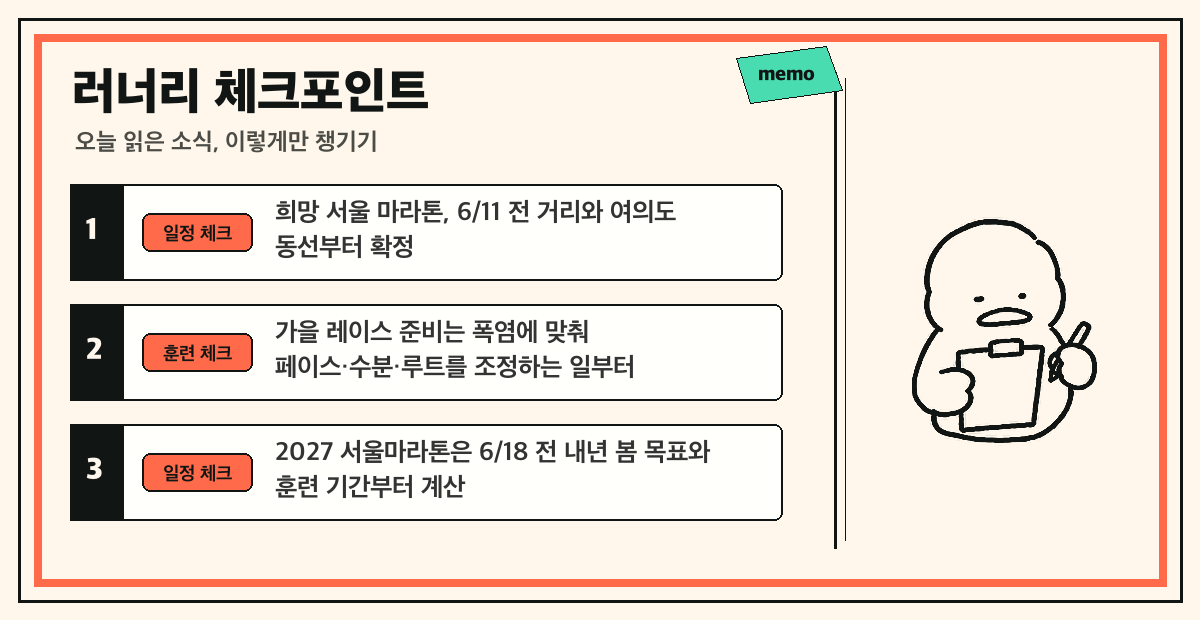
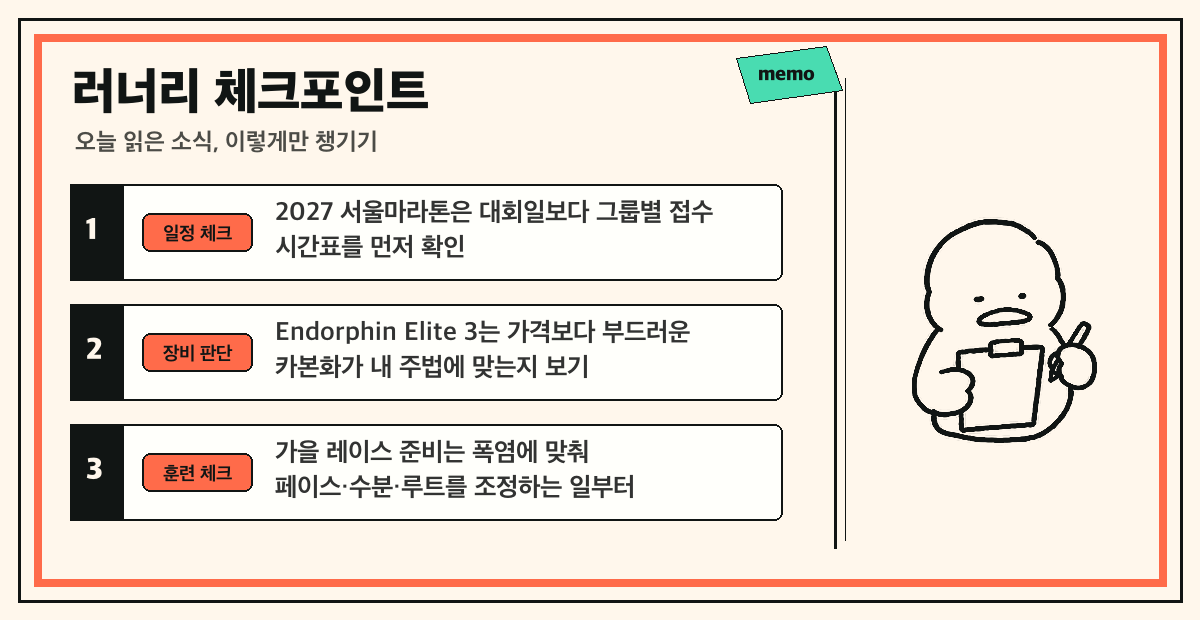
Separate subscriber sends and revise issue 20

diff --git a/scripts/validate_candidate_pool.py b/scripts/validate_candidate_pool.py
@@ -25,8 +25,7 @@ REQUIRED_FIELDS = [
     "verification_status",
 ]
 
-# Issue 20 was already sent before this source-diversity rule existed.
-SOURCE_DIVERSITY_START_ISSUE_ID = "2026-06-11-21"
+SOURCE_DIVERSITY_START_ISSUE_ID = "2026-06-09-20"
 
 AGGREGATOR_SOURCES = {
     "고러닝",

diff --git a/scripts/generate_issue.py b/scripts/generate_issue.py
@@ -157,7 +157,7 @@ def build_editorial_meta(rows, number, korea_count, global_count):
     issue_focus = build_issue_focus(rows, has_trail, has_gear, has_training)
     if main_category == "event":
         main_editorial = (
-            f"{main_title} 소식을 이번 호의 첫머리에 둔 이유는 마감이 가깝고 실제 참가 결정에 필요한 변수가 한 번에 걸려 있기 때문입니다. "
+            f"{main_title} 소식을 이번 호의 첫머리에 둔 이유는 실제 참가 결정에 필요한 변수가 한 번에 걸려 있기 때문입니다. "
             "날짜와 모집 정보는 본문 요약에서 확인하고, 여기서는 선택 기준만 잡겠습니다. "
             "접수 시작 시간, 마감일, 선착순 여부를 한 표에 놓고 보면 핵심은 '갈 수 있나'보다 '마감 전에 확정할 수 있나'입니다. "
             "접수 전에는 계정 로그인, 결제수단, 교통편, 동반자 일정을 먼저 고정하세요."

diff --git a/scripts/send_issue_email.py b/scripts/send_issue_email.py
@@ -355,7 +355,7 @@ def get_subscriber_recipients():
         raise SystemExit(
             "Missing subscriber lookup environment variable(s): "
             + ", ".join(missing)
-            + ". Use `npm run publish` so GitHub Actions supplies repository secrets."
+            + ". Use `npm run send:subscribers` so GitHub Actions supplies repository secrets."
         )
 
     url = f"https://api.cloudflare.com/client/v4/accounts/{account_id}/d1/database/{db_id}/query"

diff --git a/issues/2026-06-09-running-newsletter.md b/issues/2026-06-09-running-newsletter.md
@@ -1,46 +1,46 @@
 # 오늘의 러닝 브리핑 20 - 2026-06-09
 
 발행일: 2026-06-09
-구성: 국내 4개 / 해외 1개
-이메일 인트로: 안녕하세요, 러너리입니다. 20호는 국내 4개, 해외 1개로 구성했습니다. 이번 호에서는 제2회 희망 서울 마라톤, 6월 11일 접수 마감 같은 접수 소식과 가을 레이스 준비자를 위한 폭염 훈련 전략 같은 해외 흐름을 함께 봅니다. 바로 일정표에 올릴 정보와 다음 훈련, 장비 선택에 참고할 기준을 나눠 담았습니다.
-이번 호 중심: 이번 호는 대회 캘린더와 훈련 계획을 따로 보지 않는 데 초점을 맞췄습니다. 참가 후보를 고를 때는 마감일과 출발 시간만 볼 게 아니라, 그 일정을 무리 없이 준비할 수 있는 주간 훈련 구조까지 같이 봐야 합니다.
-메인 에디토리얼: 제2회 희망 서울 마라톤, 6월 11일 접수 마감 소식을 이번 호의 첫머리에 둔 이유는 마감이 가깝고 실제 참가 결정에 필요한 변수가 한 번에 걸려 있기 때문입니다. 날짜와 모집 정보는 본문 요약에서 확인하고, 여기서는 선택 기준만 잡겠습니다. 접수 시작 시간, 마감일, 선착순 여부를 한 표에 놓고 보면 핵심은 '갈 수 있나'보다 '마감 전에 확정할 수 있나'입니다. 접수 전에는 계정 로그인, 결제수단, 교통편, 동반자 일정을 먼저 고정하세요.
-미드런 노트: 접수 일정과 몸 관리가 같이 걸려 있습니다. 대회 캘린더를 채울 때 장거리주, 회복식, 컨디션 저하 신호를 같은 주간 계획 안에 넣어두세요.
-이번 호 관점: 이번 호는 ‘어디에 신청할까’에서 한 걸음 더 나아가 ‘무사히 준비할 수 있을까’를 같이 묻습니다. 국내 대회 후보는 접수창과 이동 동선으로 나누고, 해외 소식은 장비 역할과 피로 관리 기준으로 읽으면 좋습니다.
+구성: 국내 2개 / 해외 3개
+이메일 인트로: 안녕하세요, 러너리입니다. 20호는 국내 2개, 해외 3개로 구성했습니다. 이번 호에서는 2027 서울마라톤, 일반 접수는 그룹별 시간 확인이 먼저 같은 접수 소식과 코펜하겐 2026 세계도로러닝선수권, 5K, 1마일은 일반 접수 가능 같은 해외 흐름을 함께 봅니다. 바로 일정표에 올릴 정보와 다음 훈련, 장비 선택에 참고할 기준을 나눠 담았습니다.
+이번 호 중심: 이번 호는 6월 레이스를 한 줄 캘린더로 보지 않고 준비 방식별로 나눠 보는 호입니다. 도로 대회는 접수 마감과 이동 동선이 먼저이고, 트레일 일정은 노면과 전날 준비 시간이 핵심입니다. 장비 소식은 새 제품 이름보다 내 훈련화가 맡을 역할을 정하는 데 쓰면 좋습니다.
+메인 에디토리얼: 2027 서울마라톤, 일반 접수는 그룹별 시간 확인이 먼저 소식을 이번 호의 첫머리에 둔 이유는 실제 참가 결정에 필요한 변수가 한 번에 걸려 있기 때문입니다. 날짜와 모집 정보는 본문 요약에서 확인하고, 여기서는 선택 기준만 잡겠습니다. 접수 시작 시간, 마감일, 선착순 여부를 한 표에 놓고 보면 핵심은 '갈 수 있나'보다 '마감 전에 확정할 수 있나'입니다. 접수 전에는 계정 로그인, 결제수단, 교통편, 동반자 일정을 먼저 고정하세요.
+미드런 노트: 로드와 트레일 일정이 같이 있을 때는 출발일보다 전날 준비 시간을 먼저 보세요. 장비검사, 숙박, 이동 시간을 빼고 나면 실제로 선택 가능한 대회가 줄어듭니다.
+이번 호 관점: 이번 호는 6월 초중순 레이스를 같은 목록으로 보되 준비 난도를 다르게 읽으면 좋습니다. 도로 대회는 접수와 이동을, 트레일 대회는 전날 체크인과 장비를, 장비 소식은 내 훈련화 역할을 기준으로 나눠 보세요.
 
-안녕하세요, 러너리입니다. 20호는 국내 4개, 해외 1개로 구성했습니다. 이번 호에서는 제2회 희망 서울 마라톤, 6월 11일 접수 마감 같은 접수 소식과 가을 레이스 준비자를 위한 폭염 훈련 전략 같은 해외 흐름을 함께 봅니다. 바로 일정표에 올릴 정보와 다음 훈련, 장비 선택에 참고할 기준을 나눠 담았습니다.
+안녕하세요, 러너리입니다. 20호는 국내 2개, 해외 3개로 구성했습니다. 이번 호에서는 2027 서울마라톤, 일반 접수는 그룹별 시간 확인이 먼저 같은 접수 소식과 코펜하겐 2026 세계도로러닝선수권, 5K, 1마일은 일반 접수 가능 같은 해외 흐름을 함께 봅니다. 바로 일정표에 올릴 정보와 다음 훈련, 장비 선택에 참고할 기준을 나눠 담았습니다.
 
-## 1. 제2회 희망 서울 마라톤, 6월 11일 접수 마감
-
-- 구분: 국내 / 이벤트
-- 요약: 고러닝 기준 제2회 희망 서울 마라톤은 6월 20일 서울 여의도공원 문화의마당에서 열립니다. 종목은 하프, 10km, 5km이고 접수 마감은 6월 11일로 안내돼 있습니다. 서울 한강권 주말 대회라 출발 전 이동과 현장 동선을 미리 정해야 합니다.
-- 러너에게 중요한 이유: 마감이 이틀 남은 서울권 참가형 소식입니다. 관심 러너는 거리 선택, 결제, 여의도공원 이동 계획을 이번 주 안에 확정해야 합니다.
-- 원문: [고러닝](https://gorunning.kr/races/1018/2nd-hope-seoul-marathon/)
-- 한 줄 관점: 희망 서울 마라톤, 6/11 전 거리와 여의도 동선부터 확정.
-
-## 2. 2027 서울마라톤, 6월 18일 접수 마감
+## 1. 2027 서울마라톤, 일반 접수는 그룹별 시간 확인이 먼저
 
 - 구분: 국내 / 이벤트
-- 요약: 고러닝 기준 2027 서울마라톤은 2027년 3월 21일 서울 광화문광장에서 열립니다. 종목은 풀코스와 10km이고 접수 마감은 6월 18일로 안내돼 있습니다. 서울국제마라톤 계열 대회라 내년 봄 목표 레이스를 미리 잡는 소식입니다.
-- 러너에게 중요한 이유: 아직 대회일은 멀지만 접수 마감은 다음 주입니다. 풀코스 첫 도전이나 봄 시즌 목표를 세우는 러너는 지금 일정과 훈련 가능 기간을 같이 봐야 합니다.
-- 원문: [고러닝](https://gorunning.kr/races/1151/2027-seoul-marathon/)
-- 한 줄 관점: 2027 서울마라톤은 6/18 전 내년 봄 목표와 훈련 기간부터 계산.
+- 요약: KorMarathon은 2027 서울마라톤 일반 접수가 6월 1일과 2일에 그룹별 시간대로 진행된다고 정리했습니다. 풀코스 기록 제출, 우선 접수, 골드 패키지, 일반 접수 순서가 나뉘고, 6월 1일에는 A부터 D그룹이 19시부터 22시까지 시간차를 두고 접수합니다. 내년 봄 목표 레이스라도 접수 구조는 지금부터 파악해야 합니다.
+- 러너에게 중요한 이유: 서울마라톤은 참가 의지만으로 해결되지 않는 대회입니다. 기록 제출, 우선 접수 자격, 그룹별 오픈 시간을 미리 확인해야 접수일에 같은 실수를 반복하지 않습니다.
+- 원문: [KorMarathon](https://www.kormarathon.com/en/races/2027-seoul-marathon)
+- 한 줄 관점: 2027 서울마라톤은 대회일보다 그룹별 접수 시간표를 먼저 확인.
 
-## 3. 소백산 국망봉 왕복 트레일, 6월 10일 접수 마감
-
-- 구분: 국내 / 이벤트
-- 요약: 고러닝 기준 제11회 소백산 국망봉 왕복 트레일은 6월 21일 03시 경북 죽령휴게소에서 출발합니다. 종목은 22km이고 접수 마감은 6월 10일로 안내돼 있습니다. 백두대간 산길을 달리는 트레일이라 일반 도로 대회와 준비 기준이 다릅니다.
-- 러너에게 중요한 이유: 마감이 하루 남은 상급 트레일 후보입니다. 참가자는 거리보다 새벽 출발, 산길 장비, 이동과 회복 계획을 먼저 확인해야 합니다.
-- 원문: [고러닝](https://gorunning.kr/races/812/2026-sobaeksan-jukyeong-trail-run/)
-- 한 줄 관점: 소백산 트레일은 6/10 전 새벽 출발과 산길 준비 가능성부터 보기.
-
-## 4. 장수트레일레이스 Fall, 6월 10일 접수 마감
+## 2. 장수트레일레이스 Fall, 공식 페이지 기준 6월 10일 접수
 
 - 구분: 국내 / 이벤트
-- 요약: 고러닝 기준 2026 장수트레일레이스 Fall은 9월 19일 전북 장수종합경기장에서 열립니다. 상세 페이지에는 100km와 38K-J가 표시돼 있고, 대회 설명에는 100M, 100K, 38K-P, 38K-J, 20K 구성이 함께 안내돼 있습니다. 접수 마감은 6월 10일로 표시돼 있습니다.
-- 러너에게 중요한 이유: 트레일 대회는 접수 이후 준비 기간이 길어도 장비, 숙박, 이동을 빨리 확정해야 합니다. 마감이 하루 남은 만큼 참가 의사가 있는 러너는 거리별 자격과 준비 시간을 바로 확인해야 합니다.
-- 원문: [고러닝](https://gorunning.kr/races/925/2026-jangsu-trail-race-fall/)
-- 한 줄 관점: 장수트레일레이스 Fall, 6/10 전 거리, 숙박, 장비 준비 가능성 확인.
+- 요약: 장수트레일레이스 공식 페이지는 2026 장수트레일레이스 Fall with 노스페이스의 참가 접수 일정이 6월 10일이며 종목별 접수 오픈 시간이 다르다고 안내합니다. 대회는 장수 산악 지형을 배경으로 하는 트레일러닝 이벤트이고, 공식 숙소 안내도 함께 제공됩니다. 트레일 대회는 접수보다 숙박과 장비 준비가 먼저 병목이 됩니다.
+- 러너에게 중요한 이유: 트레일 레이스는 로드 대회처럼 접수만 끝내면 되는 일정이 아닙니다. 장수처럼 숙박 변수가 큰 지역은 거리 선택, 장비, 숙소 가능성을 같은 날 확인해야 합니다.
+- 원문: [장수트레일레이스 공식](https://rocknrun.kr/276)
+- 한 줄 관점: 장수트레일레이스는 접수 시간보다 숙박, 장비 가능성부터 같이 보기.
+
+## 3. 코펜하겐 2026 세계도로러닝선수권, 5K, 1마일은 일반 접수 가능
+
+- 구분: 해외 / 이벤트
+- 요약: World Athletics Road Running Championships Copenhagen 26 안내에 따르면 대회는 2026년 9월 19일부터 20일까지 열리고, 하프마라톤, 5K, 1마일 세 종목에 최대 6만5천 명이 참가할 수 있습니다. 공식 FAQ는 5K와 1마일 참가비, 제한시간, 하프마라톤 3시간 제한, SuperHalfs 연동까지 안내합니다. 5K와 1마일은 일반 참가자가 지금 신청할 수 있는 구조입니다.
+- 러너에게 중요한 이유: 엘리트 선수권과 일반 참가 레이스가 결합되는 흐름을 보여주는 사례입니다. 해외 원정 러너는 기록보다 참가비, 제한시간, SuperHalfs 연동, 양도 플랫폼 여부를 먼저 확인해야 합니다.
+- 원문: [World Athletics](https://worldathletics.org/en/competitions/world-athletics-road-running-championships/copenhagen26/the-lottery)
+- 한 줄 관점: 코펜하겐 2026은 엘리트 선수권이자 일반 참가형 도로러닝 축제.
+
+## 4. Saucony Endorphin Elite 3, 부드러운 카본 레이싱화 선택지
+
+- 구분: 해외 / 장비
+- 요약: Saucony 공식 제품 페이지는 Endorphin Elite 3를 브랜드의 가장 효율적인 레이싱화로 소개합니다. Tom's Guide는 6월 6일 리뷰에서 이 모델이 2026년 6월 출시됐고 가격은 290달러이며, 부드럽고 탄성 있는 미드솔과 39.5mm/31.5mm 스택, 8mm 드롭을 갖췄다고 정리했습니다. 카본 레이싱화 안에서도 단단한 추진감보다 부드러운 반발감 쪽에 가까운 선택지입니다.
+- 러너에게 중요한 이유: 마라톤화 선택은 더 비싼 신발보다 내 착지 안정성과 페이스 영역에 맞는지가 우선입니다. 부드러운 카본화가 잘 맞는 러너도 있지만, 불안정하게 느끼는 러너는 더 단단한 레이싱화와 비교해야 합니다.
+- 원문: [Saucony 공식](https://www.saucony.com/en/endorphin-elite-3/61243U.html?dwvar_61243U_color=S100981-1019)
+- 한 줄 관점: Endorphin Elite 3는 가격보다 부드러운 카본화가 내 주법에 맞는지 보기.
 
 ## 5. 가을 레이스 준비자를 위한 폭염 훈련 전략
 

diff --git a/README.md b/README.md
@@ -81,13 +81,17 @@ npm run deploy
 python3 scripts/send_issue_email.py --recipients test --issue-id 2026-05-05-05
 ```
 
-구독자 전체 발송은 사용자가 명시적으로 승인한 뒤 아래 명령으로만 진행합니다. 기본 운영 경로는 GitHub Actions 수동 워크플로이며, D1 구독자 조회와 SMTP 발송은 저장소 시크릿으로 실행됩니다.
+`npm run publish`는 발행 검증, 원고/이미지/웹 데이터 생성, 웹 빌드까지만 수행합니다. 구독자에게 메일을 보내지 않습니다.
 
 ```bash
 npm run publish
 ```
 
-위 명령은 작업 트리가 깨끗하고 현재 브랜치가 원격에 푸시된 상태일 때만 `send-newsletter.yml` 워크플로를 실행합니다. 워크플로는 검증과 생성, 웹 빌드, Cloudflare Pages 배포, 라이브 확인을 끝낸 뒤 D1의 `active` 구독자에게 메일을 보냅니다.
+구독자 전체 발송은 사용자가 "구독자에게 보내줘"라고 명시한 뒤에만 아래 명령으로 진행합니다. 이 명령은 작업 트리가 깨끗하고 현재 브랜치가 원격에 푸시된 상태일 때만 `send-newsletter.yml` 워크플로를 실행합니다.
+
+```bash
+npm run send:subscribers
+```
 
 메일 발송 전 `scripts/send_issue_email.py`는 생성된 웹 데이터를 읽고, 메일 상단 링크와 히어로 이미지를 `RUNEORRRI_SITE_BASE_URL/NN`(회차 번호)으로 연결합니다. 기본값은 검수용 `MAIL_TO` 발송이며, 구독자 발송은 D1의 `active` 구독자 목록을 사용합니다.
 
@@ -141,14 +145,14 @@ python3 scripts/run_newsletter_pipeline.py --issue-id 2026-05-05-05
 ```
 
 9. 사용자가 "메일발송해줘"라고 하면 검수용 `MAIL_TO`로만 발송합니다.
-   사용자가 "구독자에게 보내줘"라고 명시한 뒤에만 `npm run publish`로 GitHub Actions 워크플로를 실행합니다.
+   사용자가 "구독자에게 보내줘"라고 명시한 뒤에만 `npm run send:subscribers`로 GitHub Actions 워크플로를 실행합니다.
    워크플로는 검증과 생성, 웹 빌드, Cloudflare Pages 배포, 라이브 확인, D1의 `active` 구독자 발송을 한 번에 처리합니다.
 
 ## 발송 설정
 
 GitHub Actions 워크플로 `.github/workflows/send-newsletter.yml`은 예약 실행하지 않습니다. 수동 실행(`workflow_dispatch`)에서 `confirm_subscriber_send`를 `true`로 지정한 경우에만 실행됩니다. 워크플로는 웹 배포와 라이브 확인을 먼저 끝내고, 마지막 단계에서 구독자에게 메일을 발송합니다.
 
-검수용 메일은 수동으로 `--recipients test`를 사용합니다. 구독자 전체 발송은 `npm run publish` 또는 워크플로 수동 실행으로만 진행합니다.
+검수용 메일은 수동으로 `--recipients test`를 사용합니다. 구독자 전체 발송은 `npm run send:subscribers` 또는 워크플로 수동 실행으로만 진행합니다.
 
 Cloudflare Pages 배포 설정은 저장소 루트 기준으로 봅니다.
 